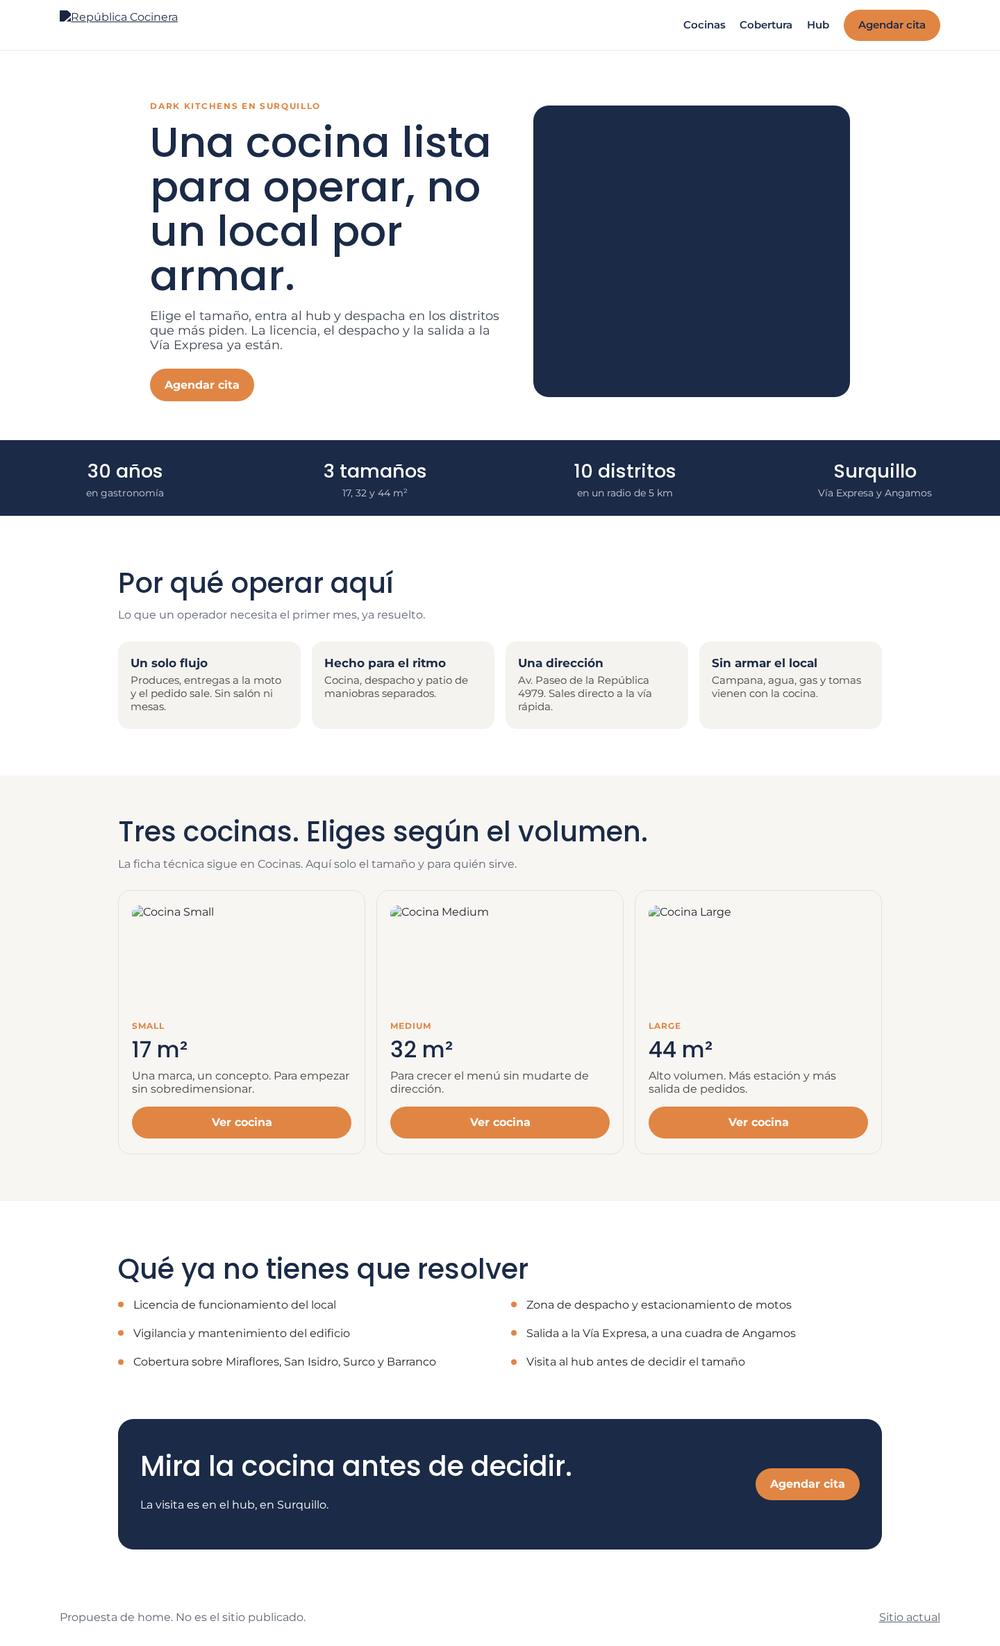
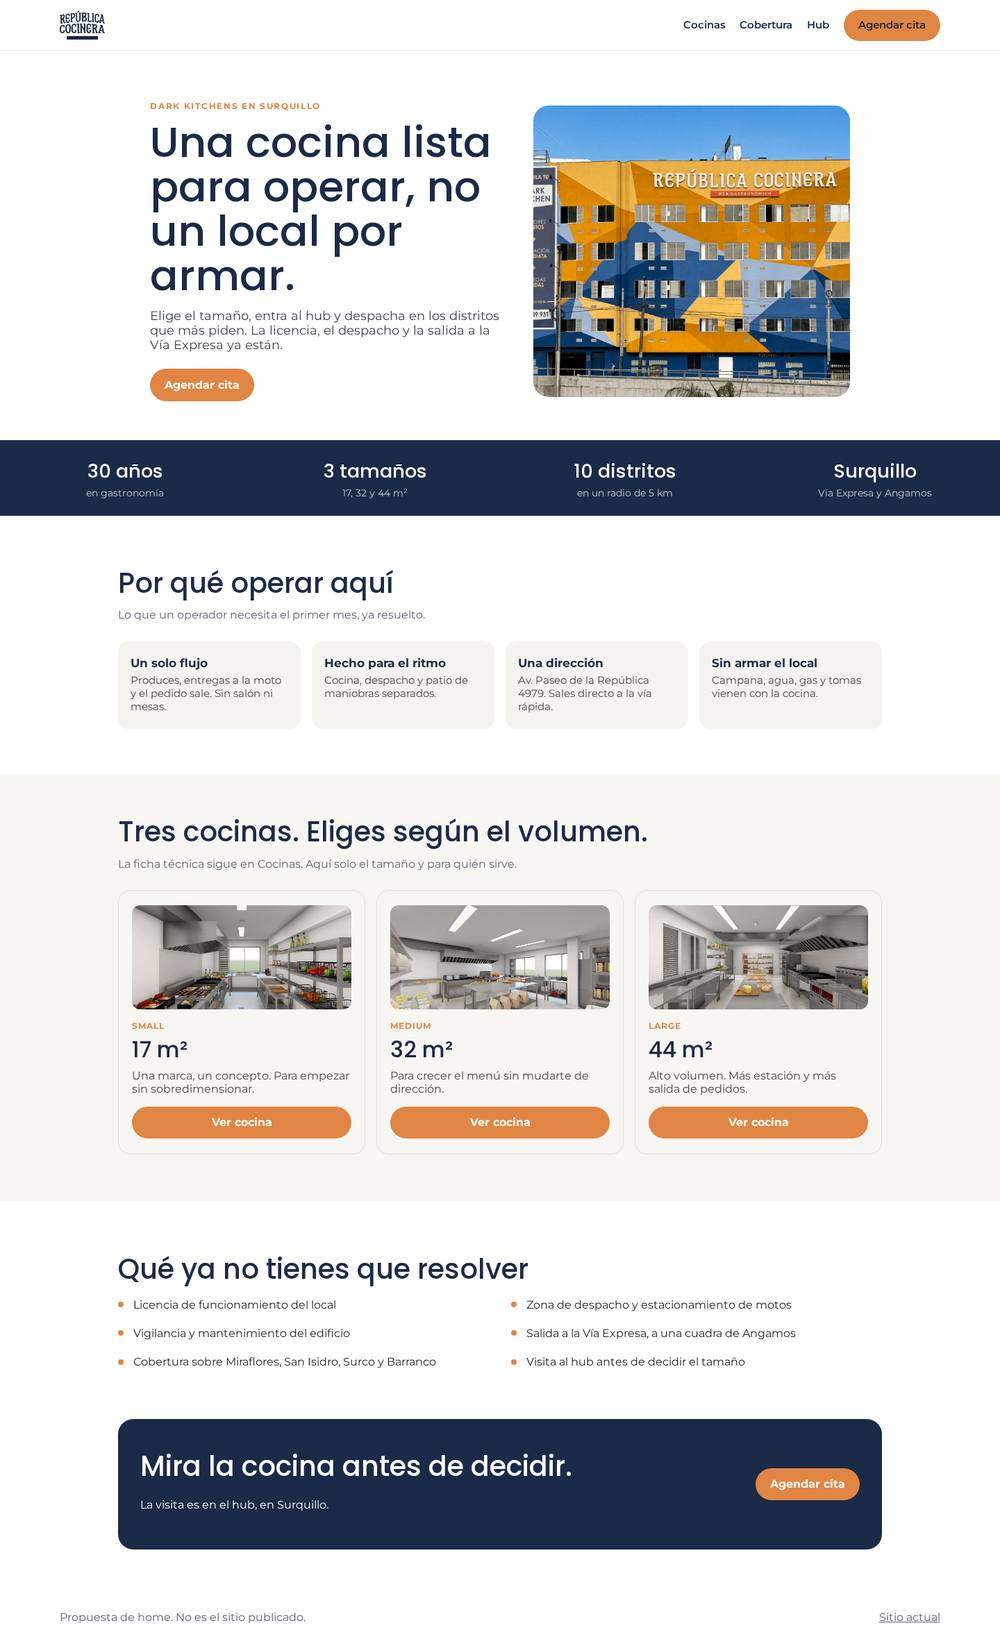
Usar las fotos reales de RC en la landing

diff --git a/estilo/index.html b/estilo/index.html
@@ -4,7 +4,7 @@
 <meta charset="utf-8">
 <meta name="viewport" content="width=device-width, initial-scale=1">
 <title>Estilo Otter | República Cocinera</title>
-<link rel="icon" href="https://republicacocinera.com/img/favicon.png">
+<link rel="icon" href="img/favicon.png">
 <link href="https://fonts.googleapis.com/css2?family=Montserrat:wght@400;600;700&family=Poppins:wght@300;500;600&display=swap" rel="stylesheet">
 <style>
   :root { --navy:#1b2a47; --orange:#e18544; --paper:#f4f3ef; --ink:#1c1e24; --muted:#5e6572; }
@@ -58,7 +58,7 @@
 </head>
 <body>
 <header class="nav">
-  <a href="https://republicacocinera.com/"><img src="https://republicacocinera.com/img/logotipo-top.svg" alt="República Cocinera" style="filter:brightness(0) saturate(100%) invert(14%) sepia(18%) saturate(1400%) hue-rotate(182deg);"></a>
+  <a href="https://republicacocinera.com/"><img src="img/logotipo-top.svg" alt="República Cocinera" style="filter:brightness(0) saturate(100%) invert(14%) sepia(18%) saturate(1400%) hue-rotate(182deg);"></a>
   <nav>
     <a href="https://republicacocinera.com/cocinas">Cocinas</a>
     <a href="https://republicacocinera.com/cobertura">Cobertura</a>
@@ -73,7 +73,7 @@
     <p class="lead">Elige el tamaño, entra al hub y despacha en los distritos que más piden. La licencia, el despacho y la salida a la Vía Expresa ya están.</p>
     <a class="btn" href="https://republicacocinera.com/formulario">Agendar cita</a>
   </div>
-  <div class="hero-photo" style="background-image:url('https://republicacocinera.com/img/republica-cocinera-peru.jpg')"></div>
+  <div class="hero-photo" style="background-image:url('img/republica-cocinera-peru.jpg')"></div>
 </section>
 <div class="stats">
   <div><b>30 años</b><span>en gastronomía</span></div>
@@ -99,21 +99,21 @@
     <p class="sub">La ficha técnica sigue en Cocinas. Aquí solo el tamaño y para quién sirve.</p>
     <div class="plans">
       <article class="plan">
-        <img src="https://republicacocinera.com/img/cocinas/cocina-small-1.jpg" alt="Cocina Small">
+        <img src="img/cocinas/cocina-small-1.jpg" alt="Cocina Small">
         <span>SMALL</span>
         <h3>17 m²</h3>
         <p>Una marca, un concepto. Para empezar sin sobredimensionar.</p>
         <a class="btn" href="https://republicacocinera.com/cocinas">Ver cocina</a>
       </article>
       <article class="plan">
-        <img src="https://republicacocinera.com/img/cocinas/cocina-medium-1.jpg" alt="Cocina Medium">
+        <img src="img/cocinas/cocina-medium-1.jpg" alt="Cocina Medium">
         <span>MEDIUM</span>
         <h3>32 m²</h3>
         <p>Para crecer el menú sin mudarte de dirección.</p>
         <a class="btn" href="https://republicacocinera.com/cocinas">Ver cocina</a>
       </article>
       <article class="plan">
-        <img src="https://republicacocinera.com/img/cocinas/cocina-large-1.jpg" alt="Cocina Large">
+        <img src="img/cocinas/cocina-large-1.jpg" alt="Cocina Large">
         <span>LARGE</span>
         <h3>44 m²</h3>
         <p>Alto volumen. Más estación y más salida de pedidos.</p>
